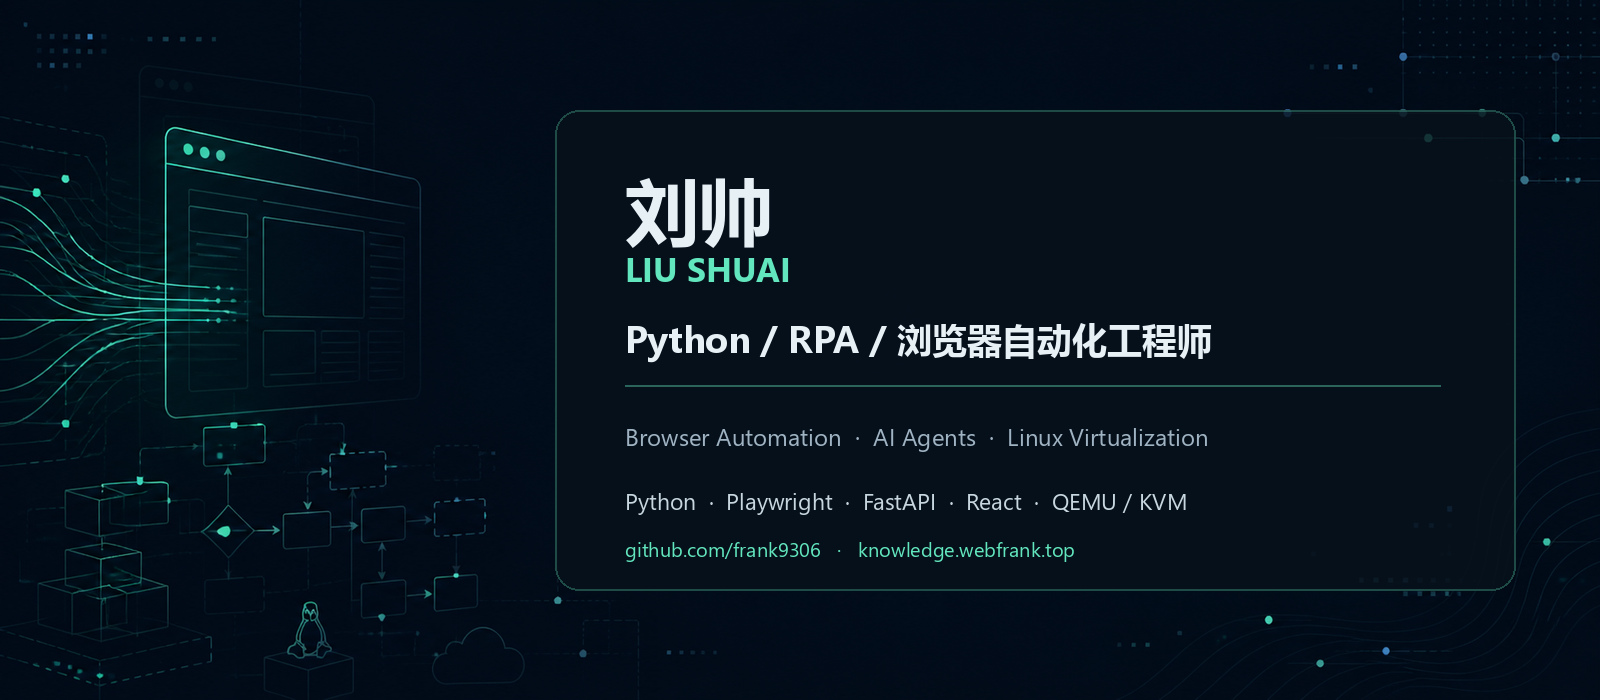
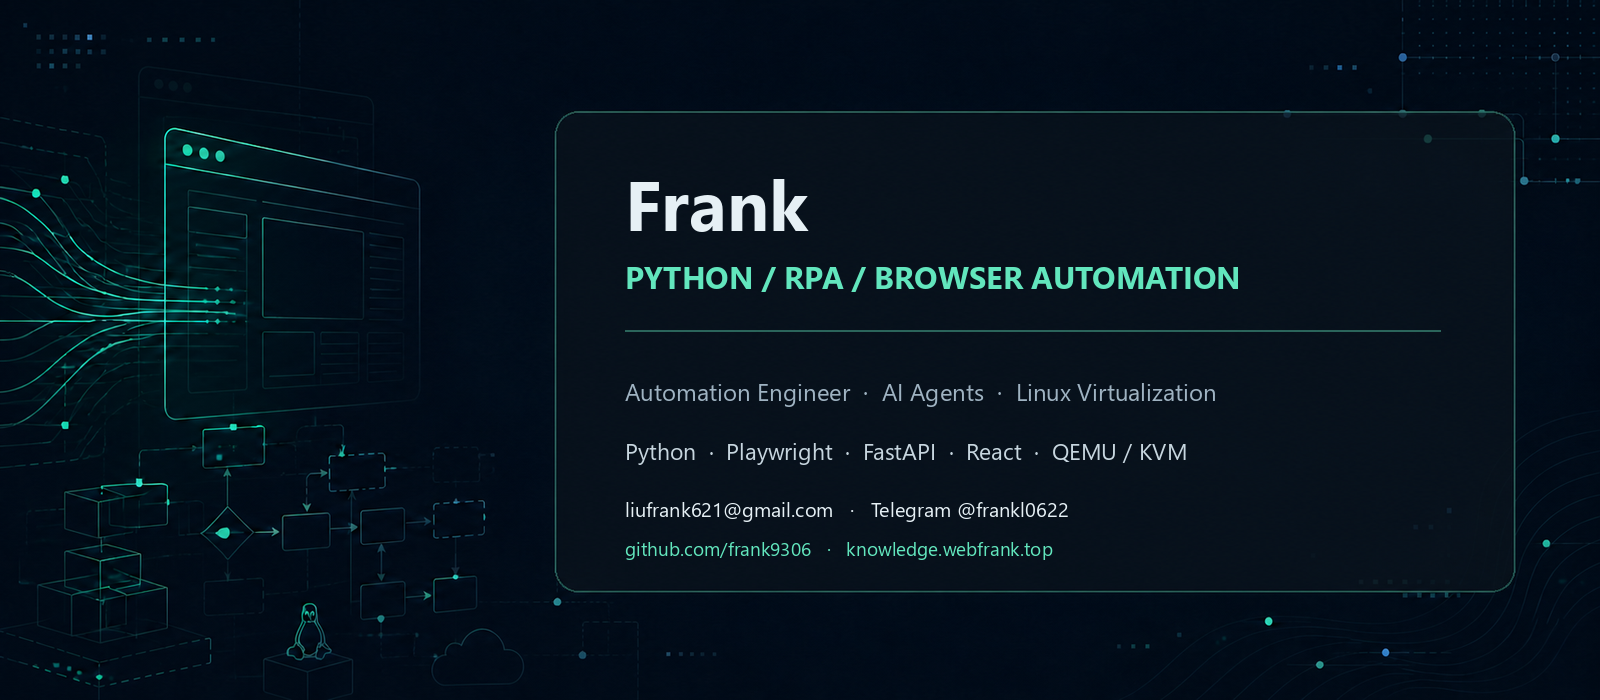
Update profile introduction and contact details

diff --git a/README.md b/README.md
@@ -1,12 +1,14 @@
-![刘帅 - Python / RPA / 浏览器自动化工程师](./github-frank9306-banner.png)
+![Frank - Python, RPA, and Browser Automation Engineer](./github-frank9306-banner.png)
 
-## 你好，我是刘帅
+## Hi, I'm Frank
 
-一名拥有近 10 年软件研发经验的工程师。近 3 年专注于指纹浏览器自动化引擎与 RPA 平台研发，此前长期参与 Linux 云桌面与虚拟化产品开发。
+I'm a software engineer with nearly 10 years of experience. For the past three years, I have focused on anti-detect browser automation engines and RPA platforms. Before that, I worked extensively on Linux cloud desktop and virtualization products.
 
-目前主要使用 Python、TypeScript 和 JavaScript，实践方向包括浏览器自动化、任务调度、Python 后端、桌面客户端与多平台交付。我也在探索如何将 Agent Skills、Codex / Claude 等 AI 工具融入 RPA 脚本生成、调试、审查与发布流程。
+I primarily work with Python, TypeScript, and JavaScript across browser automation, task scheduling, backend services, desktop clients, and cross-platform delivery. I also explore how Agent Skills and AI development tools such as Codex and Claude can improve RPA script generation, debugging, review, and delivery workflows.
 
-技术关注：`Python` · `Playwright` · `FastAPI` · `GraphQL` · `MongoDB` · `Redis` · `React` · `Linux` · `QEMU / KVM` · `AI Agent`
+Areas of focus: `Python` · `Playwright` · `FastAPI` · `GraphQL` · `MongoDB` · `Redis` · `React` · `Linux` · `QEMU / KVM` · `AI Agents`
 
-- 技术博客：[knowledge.webfrank.top](https://knowledge.webfrank.top/)
-- GitHub：[@frank9306](https://github.com/frank9306)
+- Technical blog: [knowledge.webfrank.top](https://knowledge.webfrank.top/)
+- GitHub: [@frank9306](https://github.com/frank9306)
+- Email: [liufrank621@gmail.com](mailto:liufrank621@gmail.com)
+- Telegram: [@frankl0622](https://t.me/frankl0622)
